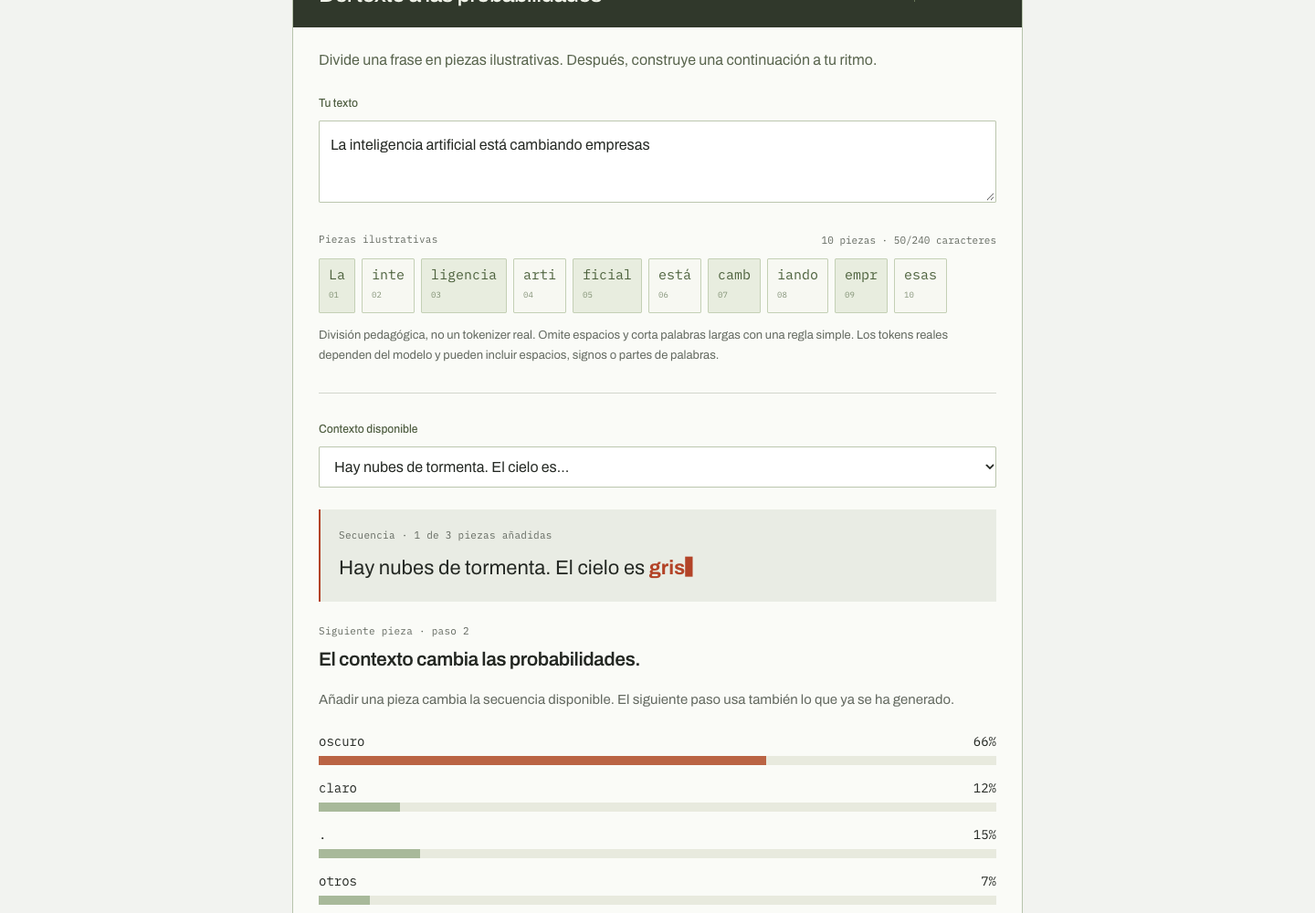
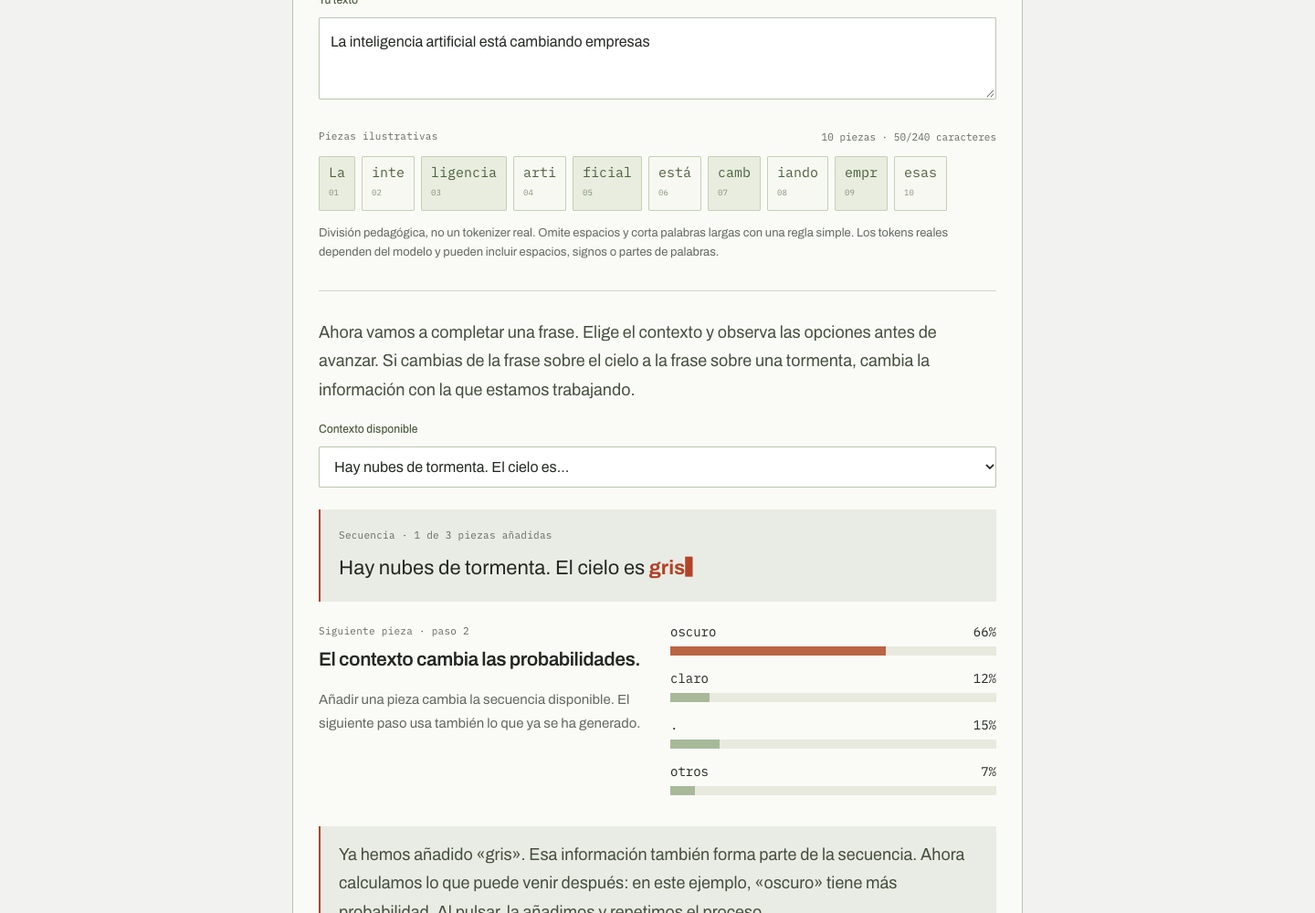
Convertir M2 en una explicación guiada para leer y enseñar

diff --git a/components/foundations-lesson.tsx b/components/foundations-lesson.tsx
@@ -6,80 +6,133 @@ import { PromptComparison, PromptExercise } from './prompt-demo';
 function PresenterNotes({ time, children }: { time: string; children: ReactNode }) {
   return <details className="presenter-notes"><summary>Notas para el presentador · {time}</summary><div>{children}</div></details>;
 }
+function Bridge({ children }: { children: ReactNode }) {
+  return <p className="lesson-bridge">{children}</p>;
+}
+function Example({ title, children }: { title: string; children: ReactNode }) {
+  return <figure className="lesson-example"><figcaption>{title}</figcaption>{children}</figure>;
+}
 
 export function Foundations() {
   return <>
+    <div className="lesson-opening">
+      <p>Antes de pedirle cosas a una IA, vamos a entender qué estamos usando. Veremos cómo construye una respuesta, por qué puede equivocarse y cómo darle una petición que pueda resolver mejor.</p>
+      <p>Vamos a seguir un recorrido sencillo: <strong>entender el modelo, darle información útil y revisar lo que responde.</strong></p>
+    </div>
     <Block title="1. El modelo y la aplicación" id="modelo">
-      <p className="label">M2 · IA Aplicada &amp; Prompting · Vídeo 1</p>
-      <p>Un <strong>LLM</strong> (Large Language Model) es un modelo de lenguaje de gran tamaño: aprende patrones durante su entrenamiento y los usa para generar texto a partir de la información que recibe.</p>
+      <p>Un <strong>LLM</strong> es un modelo de lenguaje de gran tamaño. Las siglas vienen del inglés: Large Language Model. Durante su entrenamiento aprende patrones a partir de muchos textos. Después utiliza lo aprendido para generar respuestas con la información que recibe.</p>
+      <p>¿Qué significa aprender patrones? Aprender relaciones: cómo se construyen las frases, cómo se explica un concepto o cómo suele redactarse un mensaje. Eso permite que el modelo redacte, resuma y responda preguntas.</p>
+      <Example title="Una comparación sencilla · el motor y el coche">
+        <p>Podemos pensar en el <strong>modelo como el motor</strong> y en la <strong>aplicación como el coche completo</strong>. El motor aporta una capacidad; el coche añade los controles y la forma de utilizarla.</p>
+      </Example>
       <ConceptGrid items={[
-        { name: 'Modelo', text: 'Recibe información y calcula posibles continuaciones. Puede redactar, resumir o explicar.' },
-        { name: 'Aplicación', text: 'Es el producto que utilizas: la pantalla del chat, el historial, los archivos y los ajustes. Decide qué información enviar al modelo y cómo mostrar la respuesta.' },
+        { name: 'Modelo · genera la respuesta', text: 'Recibe información y calcula cómo continuar. Es la pieza que produce el texto.' },
+        { name: 'Aplicación · organiza la experiencia', text: 'Es el producto que utilizamos: la pantalla, los botones, el historial, los archivos y los ajustes. Decide qué enviar al modelo y qué mostrarnos.' },
       ]}/>
-      <Callout>Dos aplicaciones pueden usar el mismo modelo y dar resultados distintos: pueden enviarle instrucciones e información diferentes.</Callout>
-      <PresenterNotes time="0:00–1:30"><p>Abre con «¿Estoy hablando con un modelo o usando una aplicación?». Señala las dos definiciones. Explica que guardar un chat es una función del producto, no una prueba de memoria permanente del modelo. Sin demo en este tramo.</p></PresenterNotes>
+      <p>Por eso, dos aplicaciones que utilizan el mismo modelo pueden dar respuestas distintas. Una puede enviarle instrucciones o información que la otra no le envía.</p>
+      <Callout>Cuando usamos un chat de IA, usamos una aplicación que se comunica con un modelo. El modelo y el producto completo son cosas diferentes.</Callout>
+      <Bridge>Ahora que distinguimos las dos piezas, vamos a mirar cómo el modelo construye una respuesta.</Bridge>
+      <PresenterNotes time="0:00–1:30"><p>Lee la apertura y la comparación del motor. Señala las dos definiciones. El texto visible contiene toda la explicación; las notas solo organizan el ritmo.</p></PresenterNotes>
     </Block>
 
     <Block title="2. Una respuesta, pieza a pieza" id="tokens">
-      <p>El texto se divide en <strong>tokens</strong>: unidades que pueden ser palabras, partes de palabras, espacios o signos. <strong>Un token no siempre equivale a una palabra.</strong></p>
-      <ArchitectureFlow label="GENERACIÓN · EL CICLO SE REPITE" steps={[
-        { name: 'Contexto', detail: 'Información disponible' },
-        { name: 'Probabilidades', detail: 'Posibles tokens siguientes' },
-        { name: 'Elegir y añadir', detail: 'La pieza pasa al contexto' },
-        { name: 'Repetir', detail: 'Hasta terminar la respuesta' },
+      <p>Para trabajar con el texto, el modelo lo divide en pequeñas unidades llamadas <strong>tokens</strong>. Un token puede ser una palabra, una parte de palabra o un signo. Algunos también incluyen espacios.</p>
+      <p>Así que <strong>una palabra no siempre equivale a un token</strong>. En el ejemplo de abajo veremos palabras divididas en varias piezas. Es una representación simplificada para entender la idea.</p>
+      <p>Después, la respuesta se construye paso a paso. A partir de lo que tiene delante, el modelo calcula distintas continuaciones y sus probabilidades. Se elige una pieza, se añade a la secuencia y se vuelve a calcular qué puede venir después.</p>
+      <ArchitectureFlow label="CÓMO SE CONSTRUYE LA RESPUESTA" steps={[
+        { name: 'Leer el contexto', detail: 'Qué información tiene delante' },
+        { name: 'Calcular opciones', detail: 'Qué piezas podrían venir después' },
+        { name: 'Añadir una pieza', detail: 'La secuencia cambia' },
+        { name: 'Volver a calcular', detail: 'El ciclo se repite hasta terminar' },
       ]}/>
-      <p>En cada paso se calcula una nueva distribución. Cambiar el contexto o una pieza ya generada puede cambiar lo que viene después. Esas probabilidades describen continuaciones, no la certeza de un hecho.</p>
       <FundamentalsDemo/>
-      <details className="optional-detail"><summary>Opcional · qué hay dentro del modelo</summary><p>Muchos LLM usan una arquitectura Transformer. Trabajan con representaciones numéricas de tokens y relacionan posiciones del contexto mediante mecanismos como attention. El dibujo muestra el ciclo de generación, no todas esas operaciones internas.</p><p>En un modelo real, la selección depende de la configuración y puede incluir muestreo: no siempre se elige el token más probable.</p></details>
-      <PresenterNotes time="1:30–4:30"><p>Escribe «La inteligencia artificial» y señala las partes de palabras. Cambia de cielo a tormenta y compara las barras antes de avanzar. Pulsa «Añadir siguiente pieza» tres veces: en cada paso señala la secuencia y la distribución nueva. Reinicia. Aclara que las piezas, cifras y elecciones son pedagógicas; no se está ejecutando un LLM. Omite el bloque técnico en la grabación principal.</p></PresenterNotes>
+      <Callout title="QUÉ SIGNIFICAN LAS PROBABILIDADES">Las probabilidades indican posibles continuaciones. No indican cuánto podemos confiar en que un hecho sea verdadero. Una frase puede encajar muy bien y contener un dato equivocado.</Callout>
+      <details className="optional-detail"><summary>Opcional · qué hay dentro del modelo</summary><p>Muchos LLM usan una arquitectura Transformer. Trabajan con representaciones numéricas de tokens y relacionan posiciones del contexto mediante mecanismos como attention. El dibujo muestra el ciclo de generación, no todas esas operaciones internas.</p><p>En un modelo real, la selección depende de la configuración y puede incluir muestreo: no siempre se elige el token más probable, como hace esta demo.</p></details>
+      <Bridge>Hemos visto cómo genera texto. Pero utilizar lo que ha aprendido no es lo mismo que estar aprendiendo de nuevo en cada conversación.</Bridge>
+      <PresenterNotes time="1:30–4:30"><p>Señala las piezas del texto que ya está cargado. Compara cielo y tormenta antes de avanzar. Pulsa «Añadir siguiente pieza» tres veces y lee la explicación que cambia en cada paso. Omite el bloque técnico durante el recorrido principal.</p></PresenterNotes>
     </Block>
 
     <Block title="3. Entrenar y conversar son momentos distintos" id="entrenamiento">
+      <p>Pensemos en la diferencia entre <strong>estudiar y utilizar lo que hemos estudiado</strong>. Es una comparación útil para separar dos momentos del modelo.</p>
       <ConceptGrid items={[
-        { name: 'Entrenamiento · aprende patrones', text: 'Se ajustan los parámetros del modelo usando datos. Es un proceso separado de esta conversación.' },
-        { name: 'Uso · aplica esos patrones', text: 'El modelo genera una respuesta con sus parámetros y el contexto recibido. Es lo que ocurre cuando envías una petición.' },
+        { name: 'Durante el entrenamiento · aprende patrones', text: 'Se ajusta el modelo usando datos. Es el proceso con el que adquiere capacidades antes de esta conversación.' },
+        { name: 'Durante el uso · aplica lo aprendido', text: 'Recibe nuestra petición y la información disponible. Con eso genera una respuesta. Enviar un mensaje no implica reentrenarlo en ese instante.' },
       ]}/>
-      <p>Si corriges una respuesta y el modelo se adapta en el siguiente mensaje, puede estar usando esa corrección dentro del contexto. <strong>Eso no significa que se haya reentrenado.</strong></p>
-      <Callout title="HISTORIAL, MEMORIA Y ENTRENAMIENTO">La aplicación puede guardar chats o preferencias y volver a incluirlos. Eso no significa que el modelo recuerde todo permanentemente. El posible uso posterior de conversaciones para entrenar depende del servicio y de sus ajustes; es otro proceso.</Callout>
-      <PresenterNotes time="4:30–6:00"><p>Ejemplo oral: «Me llamo Ana» → «¿Cómo me llamo?». Puede responder si ese dato sigue en el contexto. No prometas que desaparecerá de todos los sistemas al cerrar el chat: distingue contexto, almacenamiento de la aplicación y entrenamiento posterior. Sin demo.</p></PresenterNotes>
+      <Example title="Ejemplo · recordar un dato dentro de la conversación">
+        <p><strong>Tú:</strong> «Me llamo Ana».</p>
+        <p><strong>Tú, un mensaje después:</strong> «¿Cómo me llamo?».</p>
+        <p><strong>Respuesta posible:</strong> «Te llamas Ana».</p>
+      </Example>
+      <p>Puede responder porque el nombre sigue en la información que recibe. Eso demuestra que ha usado un dato de la conversación; <strong>no demuestra que se haya reentrenado ni que vaya a recordarlo para siempre.</strong></p>
+      <p>Lo mismo ocurre si corregimos una respuesta y la siguiente sale mejor. Puede estar usando esa corrección dentro de la conversación.</p>
+      <Callout title="TRES COSAS QUE CONVIENE DISTINGUIR">El contexto es lo que recibe para responder ahora. El historial o la memoria de la aplicación pueden guardar información y volver a proporcionársela. El entrenamiento modifica el modelo y es otro proceso. El uso posterior de conversaciones para entrenar depende del servicio y de sus ajustes.</Callout>
+      <Bridge>Entonces, si la conversación no es una memoria ilimitada, ¿qué información tiene disponible al responder? Eso es el contexto.</Bridge>
+      <PresenterNotes time="4:30–6:00"><p>Lee el diálogo de Ana. Detente en la diferencia entre usar el dato y aprenderlo permanentemente. No hace falta abrir otro chat ni ejecutar otra demo.</p></PresenterNotes>
     </Block>
 
     <Block title="4. El contexto es su mesa de trabajo" id="contexto">
-      <p>El <strong>contexto</strong> es la información disponible para generar esta respuesta. Tu último mensaje es solo una parte.</p>
-      <ConceptGrid items={[
-        { name: 'Qué puede incluir', text: 'Instrucciones de la aplicación, tu petición, mensajes anteriores seleccionados, texto de archivos, datos que aportas y ejemplos. También las piezas que se van generando.' },
-        { name: 'Por qué el límite importa', text: 'La ventana de contexto tiene un límite de tokens. La entrada y la generación comparten un presupuesto, con límites adicionales según el modelo. Una conversación larga puede resumirse o perder partes.' },
-      ]}/>
-      <Callout title="UN DATO CLAVE TIENE QUE ESTAR DISPONIBLE">«Te pasé el horario hace cien mensajes» no asegura que siga en el contexto. Repite los datos importantes y aporta solo la información relevante. Que algo quepa tampoco garantiza que se use bien.</Callout>
-      <PresenterNotes time="6:00–7:30"><p>Usa la metáfora de una mesa con espacio limitado. Señala petición, historial, archivo y ejemplo. Recupera verbalmente el cambio de cielo a tormenta de la demo: misma tarea, contexto diferente. No abras otra demo.</p></PresenterNotes>
+      <p>El <strong>contexto</strong> es la información que el modelo tiene disponible para generar esta respuesta. Podemos imaginarlo como una <strong>mesa de trabajo</strong>: para resolver una tarea, necesitamos tener delante las instrucciones y los materiales adecuados.</p>
+      <p>Tu último mensaje es una parte de esa mesa. La aplicación también puede incluir otras piezas:</p>
+      <ul className="context-desk" aria-label="Información que puede formar parte del contexto">
+        <li><strong>Instrucciones</strong><span>Qué debe hacer y qué límites respetar.</span></li>
+        <li><strong>Petición e historial</strong><span>Tu pregunta y los mensajes anteriores seleccionados.</span></li>
+        <li><strong>Datos y archivos</strong><span>El texto relevante que aportas para la tarea.</span></li>
+        <li><strong>Ejemplos</strong><span>Una muestra del tono o del resultado que buscas.</span></li>
+      </ul>
+      <p>Las piezas que va generando también se incorporan a la secuencia. Lo hemos visto en la demo: lo que ya ha escrito influye en lo que viene después.</p>
+      <p>Pero esa mesa tiene un tamaño limitado. La <strong>ventana de contexto</strong> tiene un límite de tokens. La entrada y la generación comparten un presupuesto, con límites adicionales según el modelo.</p>
+      <Example title="Ejemplo · un horario que enviamos hace mucho">
+        <p>«Te pasé el horario hace cien mensajes». Que siga apareciendo en la pantalla no garantiza que siga llegando al modelo. Una conversación larga puede resumirse o perder partes.</p>
+        <p>Para esta tarea, lo útil es volver a aportar <strong>el horario vigente y la tienda concreta</strong>.</p>
+      </Example>
+      <Callout>Da la información importante para la tarea actual. Añadir más texto no siempre ayuda: puede introducir ruido, y que algo quepa no garantiza que el modelo lo use bien.</Callout>
+      <Bridge>Ya sabemos por qué puede faltarle información. Ahora vamos a ver qué ocurre cuando responde con seguridad a pesar de que le faltan datos.</Bridge>
+      <PresenterNotes time="6:00–7:30"><p>Señala las cuatro piezas de la mesa. Lee el ejemplo del horario y conecta con la sección siguiente. La analogía es una ayuda, no una descripción literal del interior del modelo.</p></PresenterNotes>
     </Block>
 
     <Block title="5. Sonar convincente no es comprobar" id="verificacion">
-      <p>Preguntas «¿A qué hora cierra hoy la tienda?» sin indicar qué tienda ni aportar su horario. Una respuesta como «A las 20:00» puede sonar natural y ser inventada.</p>
-      <p>Un modelo puede producir afirmaciones falsas, mezclar datos o inventar fuentes: se suele llamar <strong>alucinación</strong>. Generar texto no garantiza verificar hechos, aunque la redacción sea segura.</p>
+      <p>Imaginemos que preguntamos: <strong>«¿A qué hora cierra hoy la tienda?»</strong>. No hemos dicho qué tienda es, dónde está ni hemos aportado su horario.</p>
+      <Example title="Dos respuestas ilustrativas · ¿cuál tiene información suficiente?">
+        <p><strong>Un dato inventado:</strong> «Hoy cierra a las 20:00».</p>
+        <p><strong>Una respuesta que reconoce lo que falta:</strong> «¿De qué tienda y ubicación hablamos? Necesito el horario vigente para confirmarlo».</p>
+      </Example>
+      <p>La primera suena clara, pero no tenemos una base para confiar en ese horario. <strong>La seguridad del tono no es una prueba.</strong></p>
+      <p>El modelo puede producir afirmaciones falsas, mezclar datos o inventar fuentes. A ese tipo de error se le suele llamar <strong>alucinación</strong>. Generar texto no garantiza verificar hechos.</p>
       <ConceptGrid items={[
-        { name: 'Comprueba antes de usar', text: 'Fechas, cifras, citas, horarios, datos actuales y cualquier respuesta que vaya a guiar una decisión importante. Contrasta con la fuente original o una comprobación independiente; pedirle que confirme no basta.' },
-        { name: 'Si faltan datos, pregunta primero', text: 'Para el horario faltan la tienda, la ubicación, la fecha y una fuente vigente. Lo útil es pedirlos o declarar el límite; no completar los huecos con hechos inventados.' },
-        { name: 'Para un borrador creativo', text: 'Revisa si sirve a tu objetivo y respeta las instrucciones. Si incluye hechos, verifica esos hechos también.' },
+        { name: 'Si hay hechos importantes · comprobar', text: 'Fechas, cifras, horarios, citas y datos actuales necesitan contraste. También cualquier respuesta que vaya a guiar una decisión importante. Busca la fuente original o una comprobación independiente.' },
+        { name: 'Si faltan datos · pedirlos', text: 'Para confirmar el horario faltan la tienda, la ubicación, la fecha y una fuente vigente. Lo útil es conseguirlos o reconocer el límite.' },
+        { name: 'Si es un borrador creativo · revisar si sirve', text: 'Comprueba si cumple el objetivo, el tono y las instrucciones. Si ese borrador incluye hechos, verifica esos hechos también.' },
       ]}/>
-      <PresenterNotes time="7:30–9:00"><p>Lee «A las 20:00» con seguridad y pregunta al espectador qué evidencia tiene. Contrasta con «¿De qué tienda y de qué día hablamos?». No llames al modelo para comprobarse a sí mismo. Sin demo.</p></PresenterNotes>
+      <Callout title="PREGUNTAR «¿SEGURO?» NO BASTA">El mismo modelo puede repetir el error con más seguridad. Pedirle que revise puede ayudar, pero no sustituye contrastar el dato con una fuente independiente.</Callout>
+      <Bridge>Una parte del trabajo está en revisar la respuesta. Otra empieza antes: explicar bien lo que queremos pedir.</Bridge>
+      <PresenterNotes time="7:30–9:00"><p>Lee las dos respuestas y señala qué falta para confirmar el horario. El contraste está escrito en pantalla; no hace falta inventar un ejemplo durante la grabación.</p></PresenterNotes>
     </Block>
 
     <Block title="6. Una petición que permite trabajar" id="peticiones">
-      <p>Un <strong>prompt</strong> es la petición que das al modelo. Para reducir ambigüedad, indica <strong>objetivo, contexto, restricciones y un ejemplo</strong>. No es una fórmula mágica: ayuda a definir lo que necesitas.</p>
+      <p>Un <strong>prompt</strong> es la petición que damos al modelo. Si la petición es vaga, tiene que resolver muchas ambigüedades. Cuanto mejor definamos la tarea, más fácil será orientar y revisar la respuesta.</p>
+      <p>Podemos apoyarnos en cuatro ingredientes:</p>
+      <ConceptGrid items={[
+        { name: 'Objetivo · qué quiero conseguir', text: 'Por ejemplo: avisar a un cliente de que su pedido se ha retrasado.' },
+        { name: 'Contexto · qué necesita saber', text: 'El pedido debía salir hoy, aún no ha salido y no hay una fecha nueva confirmada.' },
+        { name: 'Restricciones · qué límites debe respetar', text: 'Un mensaje breve, tono cercano y ninguna fecha ni compensación inventada.' },
+        { name: 'Ejemplo · cómo quiero que suene', text: 'Una frase de referencia, como «Hola, te escribimos para mantenerte al tanto de tu pedido».' },
+      ]}/>
+      <p>Vamos a comparar dos peticiones para esa misma tarea. Las respuestas están escritas de antemano para que podamos ver la diferencia con calma.</p>
       <PromptComparison/>
-      <Callout>Una petición más clara orienta la respuesta, pero no convierte datos inventados en datos verdaderos.</Callout>
-      <PresenterNotes time="9:00–11:30"><p>Lee la petición vaga y muestra su respuesta preparada. Cambia a «Petición con información». Señala los cuatro ingredientes y muestra el segundo borrador. Haz notar que no se promete una fecha de entrega. Son ejemplos escritos de antemano, no resultados medidos de un modelo.</p></PresenterNotes>
+      <Callout>La mejora consiste en definir el trabajo y aportar información útil. Una petición más clara orienta la respuesta, pero sus hechos siguen necesitando revisión.</Callout>
+      <Bridge>Vamos a terminar reuniendo las tres ideas más útiles y poniéndolas en práctica con una petición incompleta.</Bridge>
+      <PresenterNotes time="9:00–11:30"><p>Lee los cuatro ingredientes. Revela el borrador vago, cambia a la petición con información y revela el segundo. Lee la explicación visible debajo de cada resultado.</p></PresenterNotes>
     </Block>
 
     <Block title="7. Tres ideas para llevarte" id="cierre">
       <ol className="key-takeaways">
-        <li><strong>El modelo genera paso a paso.</strong> La aplicación decide qué contexto le llega.</li>
-        <li><strong>Contexto no es reentrenamiento ni memoria ilimitada.</strong> Aporta los datos que necesita esta respuesta.</li>
-        <li><strong>Claridad y verificación van juntas.</strong> Define la petición, reconoce lo que falta y comprueba los hechos.</li>
+        <li><strong>El modelo genera paso a paso.</strong> La aplicación decide qué información le llega. Por eso importa tanto lo que le damos para trabajar.</li>
+        <li><strong>Conversar no implica reentrenar ni recordar todo para siempre.</strong> Aporta los datos que necesita para esta respuesta.</li>
+        <li><strong>Una petición clara y una respuesta revisada van juntas.</strong> Explica el objetivo, identifica lo que falta y comprueba los hechos.</li>
       </ol>
       <PromptExercise/>
-      <PresenterNotes time="11:30–13:30 · margen hasta 15:00"><p>Recapitula las tres ideas. Lee el ejercicio, deja una pausa y escribe una mejora en el campo. Pregunta qué datos faltan antes de abrir «Ver una posible mejora». La guía propone preguntas; no inventa las condiciones de devolución. Dedica el margen a la respuesta del espectador.</p><p>Referencias técnicas: <a href="https://huggingface.co/learn/llm-course/en/chapter2/4" target="_blank" rel="noreferrer">Tokens · Hugging Face</a>, <a href="https://huggingface.co/learn/llm-course/en/chapter1/4" target="_blank" rel="noreferrer">Entrenamiento y generación · Hugging Face</a>, <a href="https://www.anthropic.com/engineering/effective-context-engineering-for-ai-agents" target="_blank" rel="noreferrer">Contexto · Anthropic</a> y <a href="https://platform.claude.com/docs/en/build-with-claude/prompt-engineering/claude-prompting-best-practices" target="_blank" rel="noreferrer">Peticiones claras y ejemplos · Anthropic</a>.</p></PresenterNotes>
+      <p className="lesson-closing">Trabajar mejor con una IA empieza por definir la tarea, darle información útil y reconocer sus límites. Con esas tres cosas podemos pedir mejor y decidir con más criterio qué hacer con la respuesta.</p>
+      <PresenterNotes time="11:30–13:30 · margen hasta 15:00"><p>Lee las tres ideas y el ejercicio. Deja una pausa para identificar los datos que faltan. Puedes escribir una mejora o abrir directamente la guía y leerla. Cierra con el párrafo final.</p><p>Referencias técnicas: <a href="https://huggingface.co/learn/llm-course/en/chapter2/4" target="_blank" rel="noreferrer">Tokens · Hugging Face</a>, <a href="https://huggingface.co/learn/llm-course/en/chapter1/4" target="_blank" rel="noreferrer">Entrenamiento y generación · Hugging Face</a>, <a href="https://www.anthropic.com/engineering/effective-context-engineering-for-ai-agents" target="_blank" rel="noreferrer">Contexto · Anthropic</a> y <a href="https://platform.claude.com/docs/en/build-with-claude/prompt-engineering/claude-prompting-best-practices" target="_blank" rel="noreferrer">Peticiones claras y ejemplos · Anthropic</a>.</p></PresenterNotes>
     </Block>
   </>;
 }

diff --git a/components/prompt-demo.tsx b/components/prompt-demo.tsx
@@ -7,6 +7,7 @@ export function PromptComparison() {
   const [show, setShow] = useState(false);
   function choose(value: boolean) { setClear(value); setShow(false); }
   return <DemoFrame id="comparacion" title="La misma tarea, dos peticiones" kicker="Preparar un mensaje a un cliente sobre un pedido retrasado. Compara lo que le estás dando al modelo.">
+    <p className="demo-explanation">Nuestro objetivo es comunicar un retraso. Primero veremos qué ocurre si solo pedimos «algo para un cliente». Después añadiremos los datos que hacen falta para preparar ese mensaje.</p>
     <div className="recording-controls prompt-switch" role="group" aria-label="Tipo de petición">
       <button className="prompt-choice" aria-pressed={!clear} onClick={() => choose(false)}>Petición vaga</button>
       <button className="prompt-choice" aria-pressed={clear} onClick={() => choose(true)}>Petición con información</button>
@@ -16,9 +17,10 @@ export function PromptComparison() {
       <div><dt>Contexto</dt><dd>El pedido debía salir hoy. Aún no ha salido y no tenemos una nueva fecha confirmada.</dd></div>
       <div><dt>Restricciones</dt><dd>Máximo 60 palabras, tono cercano y profesional. No inventes fechas ni compensaciones. Indica que avisaremos cuando haya una fecha confirmada.</dd></div>
       <div><dt>Ejemplo de tono</dt><dd>«Hola, te escribimos para mantenerte al tanto de tu pedido».</dd></div>
-    </dl> : <><Label>Petición</Label><p>«Escribe algo para un cliente».</p><p className="fine-print">¿Qué quieres comunicar? ¿Qué ha ocurrido? ¿Qué tono y límites necesita?</p></>}</div>
+    </dl> : <><Label>Petición</Label><p>«Escribe algo para un cliente».</p><p className="demo-explanation">Esta petición no explica qué ha ocurrido ni qué queremos comunicar. Tampoco define el tono o los límites. Al mostrar el ejemplo, veremos un mensaje genérico que podría servir para muchas situaciones.</p></>}</div>
+    {clear && <p className="demo-explanation">Ahora sí hemos definido la tarea. El dato que sigue faltando es la nueva fecha: por eso pedimos que no la invente. El ejemplo de tono ayuda a concretar qué significa «cercano».</p>}
     <button className="text-button" aria-expanded={show} aria-controls="comparison-response" onClick={() => setShow(value => !value)}>{show ? 'Ocultar respuesta de ejemplo' : 'Mostrar respuesta de ejemplo'}</button>
-    {show && <div className="prepared-response" id="comparison-response"><Label>Respuesta escrita de antemano · ejemplo ilustrativo</Label><p>{clear ? 'Hola, tu pedido debía salir hoy, pero aún no ha salido. Sentimos el retraso. Todavía no tenemos una nueva fecha confirmada; te avisaremos en cuanto la tengamos. Gracias por tu paciencia.' : 'Estimado cliente: gracias por confiar en nosotros. Estamos a su disposición para cualquier consulta. Reciba un cordial saludo.'}</p><p className="fine-print">{clear ? 'Usa los hechos aportados y deja visible el dato que falta: la nueva fecha.' : 'Suena correcto, pero no resuelve la tarea de avisar del retraso.'}</p></div>}
+    {show && <div className="prepared-response" id="comparison-response"><Label>Respuesta escrita de antemano · ejemplo ilustrativo</Label><p>{clear ? 'Hola, tu pedido debía salir hoy, pero aún no ha salido. Sentimos el retraso. Todavía no tenemos una nueva fecha confirmada; te avisaremos en cuanto la tengamos. Gracias por tu paciencia.' : 'Estimado cliente: gracias por confiar en nosotros. Estamos a su disposición para cualquier consulta. Reciba un cordial saludo.'}</p><p className="demo-explanation response-explanation">{clear ? 'Este borrador ya comunica el retraso, usa los hechos aportados y reconoce que falta una fecha. Hemos reducido la ambigüedad sin inventar información. Antes de enviarlo, revisaríamos que coincide con la situación real.' : 'El mensaje suena educado, pero no avisa del retraso. El problema es que no habíamos explicado esa tarea. Cambia a «Petición con información» para ver qué cambia cuando aportamos objetivo, contexto, restricciones y un ejemplo.'}</p></div>}
     <p className="fine-print">Simulación local: ambas respuestas están preparadas. La comparación no ejecuta un LLM ni garantiza que un modelo responda así.</p>
     <button className="text-button" onClick={() => { setClear(false); setShow(false); }}>Restablecer comparación ↺</button>
   </DemoFrame>;
@@ -31,13 +33,14 @@ export function PromptExercise() {
   return <div className="prompt-exercise" id="ejercicio-final">
     <h3>Tu turno · mejora la petición</h3>
     <p className="exercise-request">«Responde a este cliente y dile si puede devolverlo».</p>
-    <p>No se ha adjuntado el mensaje del cliente ni una política de devoluciones. Reescribe la petición e identifica qué información necesitas.</p>
+    <p>Antes de responder, pensemos: ¿qué quiere devolver?, ¿cuándo lo compró?, ¿en qué estado está?, ¿qué dice la política vigente? No tenemos esos datos ni el mensaje original del cliente.</p>
+    <p>Podemos mejorar la petición sin inventarlos: pedimos primero la información necesaria y explicamos cómo preparar el borrador cuando la tengamos. Escribe tu versión o abre la guía para ver una posible solución.</p>
     <label className="field-label" htmlFor="exercise-request">Tu petición mejorada</label>
     <textarea id="exercise-request" rows={4} maxLength={1500} value={request} onChange={e => setRequest(e.target.value)} placeholder="Objetivo, contexto, restricciones y ejemplo de tono…"/>
     <label className="field-label" htmlFor="exercise-missing">¿Qué datos faltan?</label>
     <textarea id="exercise-missing" rows={2} maxLength={800} value={missing} onChange={e => setMissing(e.target.value)} placeholder="¿Qué preguntarías antes de responder?"/>
     <div className="recording-controls"><button className="primary-button" aria-expanded={show} aria-controls="exercise-guide" onClick={() => setShow(value => !value)}>{show ? 'Ocultar guía' : 'Ver una posible mejora'}</button><button className="text-button" onClick={() => { setRequest(''); setMissing(''); setShow(false); }}>Restablecer ejercicio ↺</button></div>
-    {show && <div className="prepared-response" id="exercise-guide"><Label>Una posible mejora · sin evaluación automática</Label><p>Ayúdame a redactar una respuesta sobre una devolución. Primero pídeme el mensaje del cliente, el producto, la fecha de compra, su estado y la política vigente. Cuando te los dé, prepara un borrador breve y amable. No prometas una devolución si no está respaldada por la política; señala las dudas. Ejemplo de tono: «Hola, gracias por escribirnos. Vamos a revisar tu caso».</p><p><strong>Falta:</strong> el mensaje original, qué quiere devolver, cuándo lo compró, en qué estado está y qué condiciones se aplican.</p><p><strong>Antes de enviarlo:</strong> comprueba que la respuesta coincide con el caso y con la política vigente.</p></div>}
+    {show && <div className="prepared-response" id="exercise-guide"><Label>Una posible mejora · sin evaluación automática</Label><p>Ayúdame a redactar una respuesta sobre una devolución. Primero pídeme el mensaje del cliente, el producto, la fecha de compra, su estado y la política vigente. Cuando te los dé, prepara un borrador breve y amable. No prometas una devolución si no está respaldada por la política; señala las dudas. Ejemplo de tono: «Hola, gracias por escribirnos. Vamos a revisar tu caso».</p><p><strong>Falta:</strong> el mensaje original, qué quiere devolver, cuándo lo compró, en qué estado está y qué condiciones se aplican.</p><p><strong>Por qué mejora:</strong> define la tarea, pide los datos que faltan, limita lo que se puede prometer y da un ejemplo de tono. Todavía no decide si la devolución está permitida: primero necesita la política y los datos del caso.</p><p><strong>Antes de enviarlo:</strong> comprueba que la respuesta coincide con el caso y con la política vigente.</p></div>}
     <p className="fine-print">Práctica local: lo que escribes no se envía a ningún modelo ni se guarda al recargar.</p>
   </div>;
 }

diff --git a/components/fundamentals-demo.tsx b/components/fundamentals-demo.tsx
@@ -34,14 +34,26 @@ export function FundamentalsDemo() {
   const tokens = tokenize(input);
   const scenario = scenarios[prompt];
   const done = step === scenario.pieces.length;
+  const explanation = done
+    ? `Ya tenemos «${scenario.prefix}${scenario.pieces.join('')}». Hemos construido la continuación añadiendo una pieza cada vez. Esta simulación termina aquí; un modelo real puede elegir otras piezas y terminar de otra forma.`
+    : step === 0
+      ? prompt === 'nublado'
+        ? 'Ahora hemos añadido nubes de tormenta. En esta simulación, «gris» pasa a ser la continuación con más probabilidad. Cambiar la información disponible cambia las opciones. Pulsa el botón para añadir la primera pieza.'
+        : prompt === 'sed'
+          ? 'La frase habla de beber. Por eso, las opciones ahora son bebidas. En esta simulación, «agua» tiene más probabilidad. El contexto orienta qué puede venir después; pulsa el botón para ver el siguiente paso.'
+          : 'La frase todavía está incompleta. Aquí «azul» tiene un 73 % de probabilidad como continuación. Eso no significa que hayamos comprobado el color del cielo: las cifras son inventadas. Pulsa el botón para añadir esa pieza.'
+      : `Ya hemos añadido «${scenario.pieces.slice(0, step).join('').trim()}». Esa información también forma parte de la secuencia. Ahora calculamos lo que puede venir después: en este ejemplo, «${scenario.pieces[step].trim()}» tiene más probabilidad. Al pulsar, la añadimos y repetimos el proceso.`;
   function reset() { setInput(defaults); setPrompt('cielo'); setStep(0); }
   return <DemoFrame title="Del texto a las probabilidades" kicker="Divide una frase en piezas ilustrativas. Después, construye una continuación a tu ritmo.">
+    <p className="demo-explanation">Mira las piezas de esta frase. Algunas palabras aparecen enteras y otras se dividen. Puedes dejar el ejemplo cargado o escribir otra frase para comparar.</p>
     <label className="field-label" htmlFor="token-input">Tu texto</label>
     <textarea id="token-input" value={input} maxLength={240} onChange={e => setInput(e.target.value)} rows={2}/>
     <div className="token-meta"><Label>Piezas ilustrativas</Label><span>{tokens.length} piezas · {input.length}/240 caracteres</span></div>
     <div className="tokens" aria-live="polite">{tokens.length ? tokens.map((x, i) => <span key={i}>{x}<small>{String(i + 1).padStart(2, '0')}</small></span>) : <p>Escribe una frase para ver cómo se divide.</p>}</div>
     <p className="fine-print">División pedagógica, no un tokenizer real. Omite espacios y corta palabras largas con una regla simple. Los tokens reales dependen del modelo y pueden incluir espacios, signos o partes de palabras.</p>
     <div className="demo-divider"/>
+    <div className="generation-workbench">
+    <p className="demo-explanation">Ahora vamos a completar una frase. Elige el contexto y observa las opciones antes de avanzar. Si cambias de la frase sobre el cielo a la frase sobre una tormenta, cambia la información con la que estamos trabajando.</p>
     <label className="field-label" htmlFor="prompt-context">Contexto disponible</label>
     <select id="prompt-context" value={prompt} onChange={e => { setPrompt(e.target.value); setStep(0); }}>
       {Object.entries(scenarios).map(([key, item]) => <option value={key} key={key}>{item.label}</option>)}
@@ -51,7 +63,9 @@ export function FundamentalsDemo() {
       <div><Label>{done ? 'Fin del ejemplo' : `Siguiente pieza · paso ${step + 1}`}</Label><h4>{done ? 'La continuación está completa.' : 'El contexto cambia las probabilidades.'}</h4><p>{done ? 'Estas tres piezas son una continuación preparada. Un modelo real puede producir otras y detenerse de otra forma.' : 'Añadir una pieza cambia la secuencia disponible. El siguiente paso usa también lo que ya se ha generado.'}</p></div>
       <div className="probabilities" aria-live="polite" aria-atomic="true">{!done && scenario.probabilities[step].map(([word, probability]) => <div className="prob-row" key={word}><div><span>{word}</span><span>{probability}%</span></div><div className="prob-track"><span style={{ width: `${probability}%` }}/></div></div>)}{done && <p className="generation-complete">{scenario.pieces.join('')} <span aria-hidden="true">✓</span></p>}</div>
     </div>
+    <p className="demo-explanation step-explanation" aria-live="polite" aria-atomic="true">{explanation}</p>
     <div className="recording-controls"><button className="primary-button" disabled={done} onClick={() => setStep(s => Math.min(s + 1, 3))}>Añadir siguiente pieza →</button><button className="text-button" onClick={() => setStep(0)}>Reiniciar secuencia ↺</button></div>
+    </div>
     <p className="fine-print">Simulación: piezas y probabilidades inventadas, sin conexión a un modelo. Aquí siempre elegimos la opción más probable y terminamos tras tres pasos; en un LLM real la selección y la parada pueden variar.</p>
     <button className="text-button" onClick={reset}>Restablecer laboratorio ↺</button>
   </DemoFrame>;

diff --git a/app/globals.css b/app/globals.css
@@ -3050,3 +3050,28 @@ body {
   .prompt-choice { flex: 1; }
 }
 @media print { .presenter-notes { display: none; } }
+
+/* Lectura guiada: explicaciones útiles en pantalla y al compartir la lección. */
+.lesson-opening { padding: 28px 0 8px; }
+.lesson-opening p { color: #444e3d; }
+.lesson-example { margin: 24px 0; padding: 20px 24px; background: var(--tint); border-left: 2px solid #a8b99a; }
+.lesson-example figcaption { margin-bottom: 14px; font: 11px/1.6 var(--font-mono); color: var(--green); }
+.lesson-example p { color: #444e3d; }
+.block-content>.lesson-bridge { margin-top: 26px; padding-top: 16px; border-top: 1px solid var(--line); color: var(--accent); }
+.context-desk { padding: 0; margin: 24px 0; list-style: none; display: grid; grid-template-columns: 1fr 1fr; gap: 0 24px; }
+.context-desk li { padding: 16px 0; border-bottom: 1px solid var(--line); }
+.context-desk strong,.context-desk span { display: block; }
+.context-desk span { margin-top: 6px; color: var(--muted); }
+.demo .demo-explanation { font-size: 17px; line-height: 1.75; color: #444e3d; margin: 18px 0; }
+.demo .step-explanation { padding: 16px 20px; border-left: 2px solid var(--accent); background: var(--tint); }
+.demo .response-explanation { border-top: 1px solid #c4d0b5; padding-top: 16px; }
+.presentation .demo .demo-explanation { font-size: 18px; }
+.lesson-closing { margin-top: 28px; padding-top: 20px; border-top: 1px solid var(--line); }
+@media (min-width: 900px) {
+  .generation-workbench .prediction-grid { grid-template-columns: 1fr 1fr; gap: 28px; }
+}
+@media (max-width: 600px) {
+  .lesson-example { padding: 16px; }
+  .context-desk { grid-template-columns: 1fr; }
+  .demo .step-explanation { padding: 14px; }
+}

diff --git a/README.md b/README.md
@@ -65,7 +65,7 @@ Las duraciones indicadas son estimaciones para recorrer cada lección con explic
 
 ## Contenido y demos
 
-1. **Fundamentos / M2 vídeo 1:** división de texto ilustrativa y generación manual de tres piezas en tres contextos. Probabilidades inventadas; no es un tokenizer ni un modelo real. Incluye comparación de peticiones con respuestas preparadas y práctica final de devolución, con guía revelable. Recorrido de 12–15 minutos y notas por sección ocultas en presentación. Guion y revisión: `docs/M2-video-01.md`.
+1. **Fundamentos / M2 vídeo 1:** división de texto ilustrativa y generación manual de tres piezas en tres contextos. Probabilidades inventadas; no es un tokenizer ni un modelo real. Incluye comparación de peticiones con respuestas preparadas y práctica final de devolución, con guía revelable. Recorrido de 12–15 minutos con explicaciones que se pueden leer en voz alta, ejemplos visibles, transiciones y explicaciones de cada paso de la demo. Notas de ritmo por sección ocultas en presentación. Guion y revisión: `docs/M2-video-01.md`.
 2. **RAG:** cuatro temas de una tienda ficticia, búsqueda por palabras clave, fragmentos recuperados, respuesta con referencias y abstención para preguntas desconocidas. No hay embeddings ni generación real.
 3. **Fiabilidad:** presets A/B, chunk size, top-k y reranking. La métrica es ilustrativa y determinista, no un benchmark.
 4. **Tools:** consulta de cliente, dos facturas pendientes y creación de tarea confirmada. Incluye fallo de consulta y bloqueo de escritura. «Mañana» se resuelve con la fecha y zona horaria del navegador.

diff --git a/docs/M2-video-01.md b/docs/M2-video-01.md
@@ -47,3 +47,11 @@ No se conecta un modelo real. La división del texto, las probabilidades y las r
 - [Peticiones claras, contexto y ejemplos · Anthropic](https://platform.claude.com/docs/en/build-with-claude/prompt-engineering/claude-prompting-best-practices).
 
 Estas referencias apoyan las explicaciones conceptuales. Las cifras y los borradores de las demos son propios y no son mediciones tomadas de las fuentes.
+
+## Lectura guiada · revisión del 7 de octubre de 2026
+
+La explicación que antes requería desarrollar oralmente las notas pasa al contenido visible de la lección. Incluye apertura, analogías del motor/coche y de estudiar/utilizar lo aprendido, diálogo de Ana, mesa de trabajo del contexto, dos respuestas al horario y transiciones entre secciones. El contenido se puede leer durante la grabación y repasar después desde el mismo enlace.
+
+Las notas del presentador siguen ocultas en presentación y solo orientan el ritmo. Los términos se explican antes de usarlos. No se incluyen afirmaciones sobre haber creado el modelo o sus tecnologías: las demos se identifican como simulaciones pedagógicas.
+
+El laboratorio de generación explica cada estado: contexto inicial, cambio a tormenta o bebidas, pieza incorporada, cálculo siguiente y final del ejemplo. La comparación de peticiones explica por qué el primer borrador es genérico y por qué el segundo reconoce la fecha que falta. El ejercicio permite leer directamente la guía sin tener que escribir o memorizar una solución.

diff --git a/VALIDACION.md b/VALIDACION.md
@@ -67,3 +67,11 @@ Pruebas funcionales e inspección visual realizadas en Chromium. No se afirma ce
 - Inicio, índice y cinco lecciones: HTTP 200; ruta inexistente: HTTP 404.
 - Capturas: `docs/m2-*-presentacion.png`. Revisión de contenido y guion: `docs/M2-video-01.md`.
 - El navegador integrado no pudo iniciar por un error de metadatos del entorno. La comprobación se realizó con Playwright y Chrome local en modo headless.
+
+## Lectura guiada para grabación · 7 de octubre de 2026
+
+- Explicaciones principales, ejemplos y transiciones disponibles en pantalla tanto al presentar como al compartir la lección. Notas privadas de ritmo ocultas en presentación.
+- Cada estado de la generación tiene una explicación coherente con el contexto y las piezas añadidas; comprobados cielo, tormenta, bebidas y final.
+- Comparación y ejercicio explican el motivo de la mejora y los datos que siguen faltando.
+- Comprobación funcional completa sobre la exportación local: controles, reinicios, presentación, navegación, rutas y tamaños 390/768/1440 px correctos; sin errores de página.
+- Capturas de presentación actualizadas. Compilación y TypeScript correctos.
